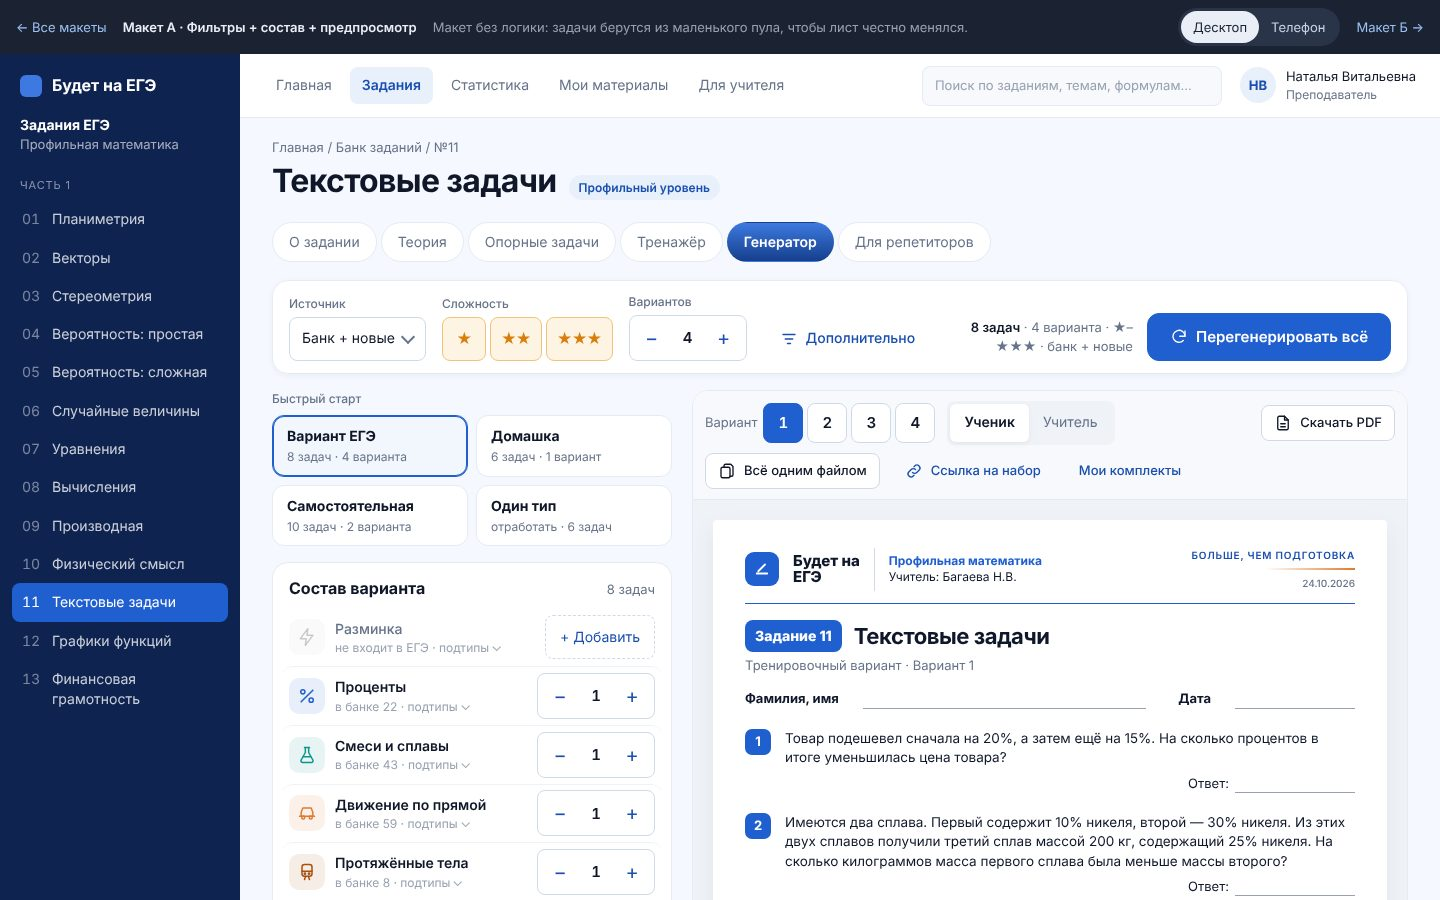
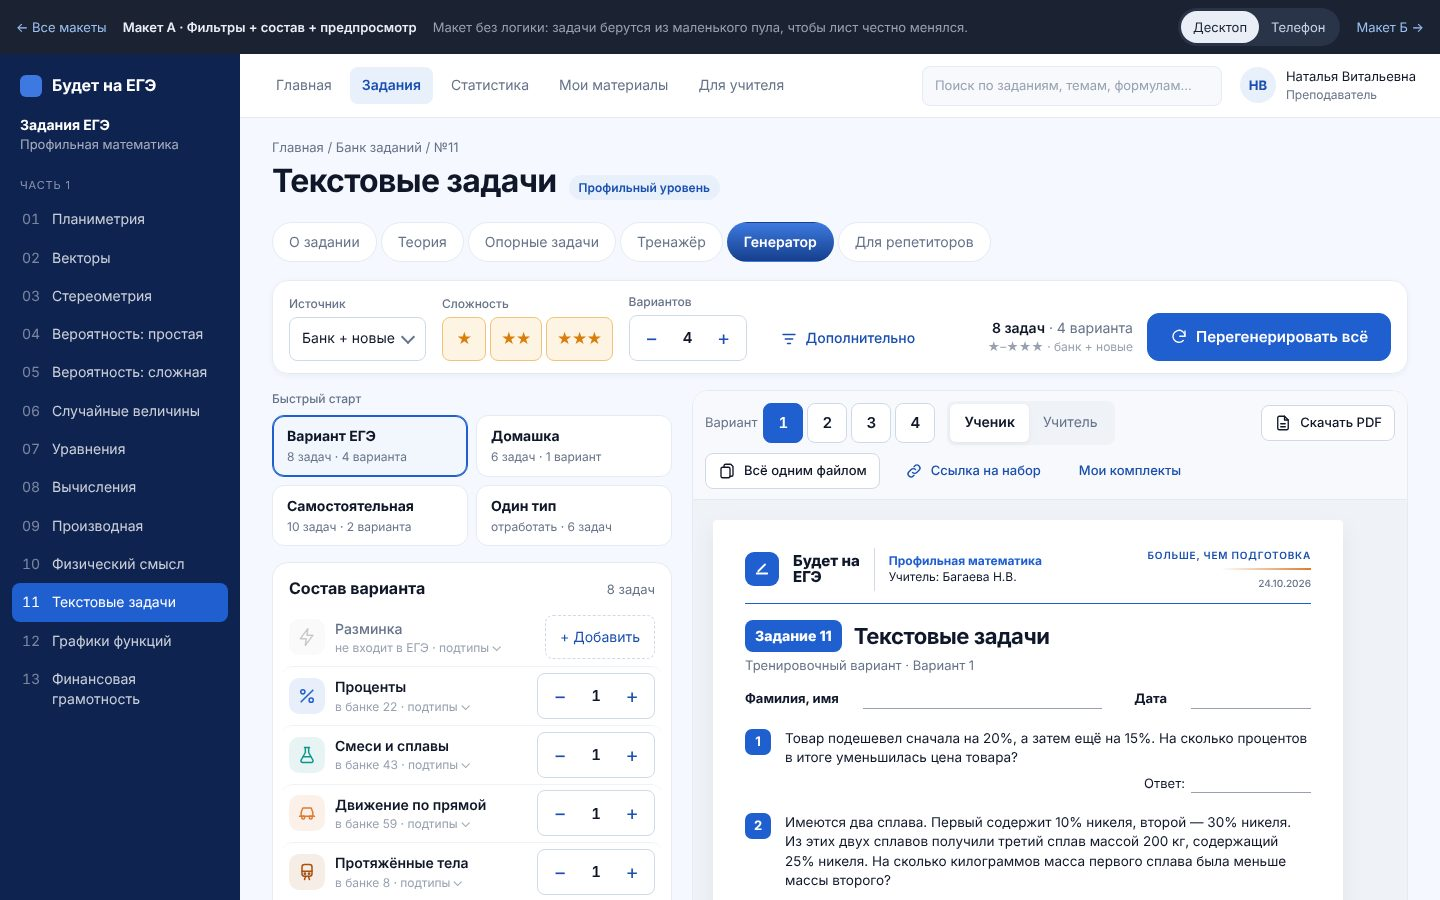
Генератор: выбран макет А, три правки по итогам обсуждения
Короткая сводка в полосе фильтров, действия над задачей — колонкой
иконок на поле справа от листа, окно «Фильтры» на телефоне по образцу
шага 2 макета Б. В 02-design.md записан выбор.

Claude-Session: https://claude.ai/code/session_01NsKWZTRfLBHKpLNKgzsvTi

diff --git a/docs/generator/mockups/mockup.js b/docs/generator/mockups/mockup.js
@@ -69,6 +69,11 @@
     if (s[1] - s[0] === 1) return '★'.repeat(s[0]) + '–' + '★'.repeat(s[1]);
     return '★ и ★★★';
   }
+  function summaryShort() {
+    const n = total(), v = S.variants;
+    return `<b>${n} ${plural(n, 'задача', 'задачи', 'задач')}</b> · ${v} ${plural(v, 'вариант', 'варианта', 'вариантов')}`;
+  }
+  function summaryPlain() { return summary().replace(/<[^>]+>/g, ''); }
   function summary() {
     const n = total(), v = S.variants;
     const src = MK.sources.find((x) => x.id === S.src).short;
@@ -147,7 +152,7 @@
           ${teacher ? `<div class="task__sol"><b>Ответ: ${t.a}.</b> ${tex(t.s)}</div>` : '<div class="task__ans">Ответ: <span></span></div>'}
         </div>
         ${demo ? '' : `<div class="task__tools" role="toolbar" aria-label="Действия с задачей ${ord}">
-          <button data-act="swap">${ico('swap')}Заменить</button><button data-act="lvl">${ico('star')}Другой уровень</button><button data-act="del">${ico('x')}Убрать</button></div>
+          <button data-act="swap" title="Заменить на похожую" aria-label="Заменить на похожую">${ico('swap')}</button><button data-act="lvl" title="Другой уровень" aria-label="Другой уровень">${ico('star')}</button><button data-act="del" title="Убрать из листа" aria-label="Убрать из листа">${ico('x')}</button></div>
           <button class="task__more" data-act="menu" aria-label="Действия с задачей ${ord}">${ico('dots')}</button>`}
       </li>`;
     });
@@ -230,7 +235,7 @@
         <div class="fld"><span class="lbl">Вариантов</span><span class="step"><button data-vdec aria-label="Вариантов меньше" ${S.variants <= 1 ? 'disabled' : ''}>−</button><output>${S.variants}</output><button data-vinc aria-label="Вариантов больше" ${S.variants >= 8 ? 'disabled' : ''}>+</button></span></div>
         <button class="btn btn--ghost" data-more aria-expanded="${S.moreOpen}">${ico('filter')}Дополнительно</button>
       </div>
-      <div class="strip__go"><span class="sum">${summary()}</span><button class="btn btn--primary go" data-go>${S.generated ? ico('refresh') + 'Перегенерировать всё' : ico('play') + 'Сгенерировать'}</button></div>
+      <div class="strip__go"><span class="sum" title="${summaryPlain()}">${summaryShort()}<small>${lvText(S.lv)} · ${MK.sources.find((x) => x.id === S.src).short}</small></span><button class="btn btn--primary go" data-go>${S.generated ? ico('refresh') + 'Перегенерировать всё' : ico('play') + 'Сгенерировать'}</button></div>
       <div class="strip__chips">
         <button class="is-filters" data-sheet="filters">${ico('filter')}Фильтры</button>
         <button data-sheet="filters">${src.title}</button>
@@ -246,9 +251,9 @@
     overlay().innerHTML = `<div class="scrim" data-close></div><div class="bsheet" role="dialog" aria-modal="true" aria-label="${title}"><div class="bsheet__grip"></div><div class="bsheet__h"><h2>${title}</h2><button class="btn btn--sm btn--ghost" data-close aria-label="Закрыть">${ico('x')}</button></div><div class="bsheet__body">${body}</div>${foot ? `<div class="bsheet__foot">${foot}</div>` : ''}</div>`;
   }
   function filtersBody() {
-    return `<section><span class="lbl">Откуда брать задачи</span>${MK.sources.map((s) => `<button class="radio" role="radio" aria-checked="${S.src === s.id}" data-src="${s.id}"><i></i><span><b>${s.title}</b><small>${s.note}</small></span></button>`).join('')}</section>
-      <section><span class="lbl">Сложность</span><div class="stars" role="group">${[1, 2, 3].map((l) => `<button data-lv="${l}" aria-pressed="${S.lv.includes(l)}">${'★'.repeat(l)}</button>`).join('')}</div><p class="hint" style="margin:8px 0 0">★ — ${MK.levelWords[1]}, ★★ — ${MK.levelWords[2]}, ★★★ — ${MK.levelWords[3]}.</p></section>
-      <section><span class="lbl">Вариантов</span><span class="step"><button data-vdec ${S.variants <= 1 ? 'disabled' : ''}>−</button><output>${S.variants}</output><button data-vinc ${S.variants >= 8 ? 'disabled' : ''}>+</button></span></section>
+    return `<section><h3 class="sec-h">Откуда брать задачи</h3>${MK.sources.map((s) => `<button class="radio" role="radio" aria-checked="${S.src === s.id}" data-src="${s.id}"><i></i><span><b>${s.title}</b><small>${s.note}</small></span></button>`).join('')}</section>
+      <section><h3 class="sec-h">Сложность</h3><div class="lvcards" role="group" aria-label="Сложность">${[1, 2, 3].map((l) => `<button data-lv="${l}" aria-pressed="${S.lv.includes(l)}"><b>${'★'.repeat(l)}</b><small>${MK.levelWords[l]}</small></button>`).join('')}</div><p class="hint" style="margin:8px 0 0">Можно выбрать несколько. Темы из состава не пропадают.</p></section>
+      <section><h3 class="sec-h">Вариантов</h3><span class="step"><button data-vdec ${S.variants <= 1 ? 'disabled' : ''}>−</button><output>${S.variants}</output><button data-vinc ${S.variants >= 8 ? 'disabled' : ''}>+</button></span></section>
       <section class="more-in-sheet">${moreHtml()}</section>`;
   }
   function openFilters() {

diff --git a/docs/generator/mockups/mockup.css b/docs/generator/mockups/mockup.css
@@ -143,6 +143,8 @@ body.view-phone .side, body.view-phone .tabs { top: 0; }
 .sum { font-size: 13px; color: var(--grey-700); text-align: right; max-width: 300px; min-width: 0; }
 @container dev (max-width: 1180px) { .strip { flex-wrap: wrap; } }
 .sum b { color: var(--grey-900); font-weight: 600; }
+.strip .sum { font-size: 14px; }
+.strip .sum small { display: block; font-size: 12px; color: var(--grey-500); }
 .strip__chips { display: none; }
 body.view-phone .strip { top: 52px; }
 
@@ -198,7 +200,7 @@ body.view-phone .strip { top: 52px; }
 .vtabs span { font-size: 13px; color: var(--grey-700); margin-right: 2px; }
 .vtabs button { width: 40px; height: 40px; border-radius: var(--r-md); border: 1px solid var(--grey-300); background: #fff; font-weight: 600; font-variant-numeric: tabular-nums; }
 .vtabs button[aria-pressed="true"] { background: var(--blue-600); border-color: var(--blue-600); color: #fff; }
-.pv__scroll { background: var(--grey-100); padding: 20px; max-height: calc(100vh - 260px); overflow: auto; }
+.pv__scroll { background: var(--grey-100); padding: 20px 64px 20px 20px; max-height: calc(100vh - 260px); overflow: auto; }
 body.view-phone .pv__scroll { max-height: none; }
 .toast { position: absolute; left: 50%; bottom: 16px; transform: translateX(-50%); background: var(--navy-900); color: #fff; font-size: 13px; padding: 10px 14px; border-radius: var(--r-md); box-shadow: var(--sh-lg); z-index: 70; pointer-events: none; }
 .right .toast { position: absolute; }
@@ -243,10 +245,10 @@ body.view-phone .pv__scroll { max-height: none; }
 .sh-empty { padding: 28px 0 8px; text-align: center; color: var(--grey-700); }
 
 /* Действия над задачей: десктоп — по наведению, тач — кнопка «⋯» и долгое нажатие. */
-.task__tools { position: absolute; top: 6px; right: 6px; display: flex; gap: 4px; opacity: 0; transition: opacity .12s; background: #fff; border: 1px solid var(--grey-200); border-radius: 10px; padding: 3px; box-shadow: var(--sh-md); }
-.task__tools button { border: 0; background: none; min-height: 32px; padding: 0 10px; border-radius: 7px; font-size: 13px; color: var(--grey-900); display: inline-flex; align-items: center; gap: 6px; }
+.task__tools { position: absolute; top: 4px; right: -66px; display: flex; flex-direction: column; gap: 2px; opacity: 0; transition: opacity .12s; background: #fff; border: 1px solid var(--grey-200); border-radius: 10px; padding: 3px; box-shadow: var(--sh-md); z-index: 2; }
+.task__tools button { border: 0; background: none; width: 34px; height: 34px; border-radius: 7px; color: var(--grey-700); display: grid; place-items: center; }
 .task__tools button:hover { background: var(--blue-50); color: var(--blue-700); }
-.task__tools svg { width: 15px; height: 15px; }
+.task__tools svg { width: 17px; height: 17px; }
 .task__grip { position: absolute; left: -18px; top: 14px; width: 14px; height: 22px; opacity: 0; cursor: grab; color: var(--grey-500); }
 .sheet.is-live .task:hover { background: var(--blue-50); }
 .sheet.is-live .task:hover .task__tools, .sheet.is-live .task:focus-within .task__tools { opacity: 1; }
@@ -273,6 +275,13 @@ body.view-phone .pv__scroll { max-height: none; }
 .bsheet section { padding: 12px 0; border-top: 1px solid var(--grey-100); }
 .bsheet section:first-child { border-top: 0; }
 .bsheet section > .lbl { display: block; margin-bottom: 8px; font-size: 13px; }
+.sec-h { margin: 0 0 10px; font-size: 16px; font-weight: 600; }
+.lvcards { display: grid; grid-template-columns: repeat(3, minmax(0, 1fr)); gap: 8px; }
+.lvcards button { display: flex; flex-direction: column; align-items: flex-start; gap: 4px; min-height: 76px; padding: 10px; text-align: left; border: 1px solid var(--grey-200); background: #fff; border-radius: var(--r-lg); }
+.lvcards button b { color: var(--grey-500); font-size: 15px; letter-spacing: -.05em; }
+.lvcards button small { font-size: 12px; color: var(--grey-700); line-height: 1.3; }
+.lvcards button[aria-pressed="true"] { border-color: #f2c27a; background: var(--amber-50); }
+.lvcards button[aria-pressed="true"] b { color: var(--amber-600); }
 .radio { display: flex; gap: 12px; align-items: flex-start; width: 100%; text-align: left; border: 1px solid var(--grey-200); background: #fff; border-radius: var(--r-lg); padding: 12px; min-height: 56px; }
 .radio + .radio { margin-top: 8px; }
 .radio i { width: 20px; height: 20px; border-radius: 50%; border: 2px solid var(--grey-300); flex: none; margin-top: 1px; }

diff --git a/docs/generator/mockups/index.html b/docs/generator/mockups/index.html
@@ -47,7 +47,7 @@
     <article class="card">
       <img src="shots/a-desktop-student.jpg" alt="Макет А на десктопе: полоса фильтров сверху, состав слева, лист справа" width="1440" height="900">
       <div class="card__body">
-        <span class="tag tag--rec">Рекомендую</span>
+        <span class="tag tag--rec">Выбран</span>
         <h2>А · Фильтры + состав + предпросмотр</h2>
         <p>Один экран. Сверху липкая полоса фильтров со сводкой и кнопкой «Сгенерировать». Слева пресеты и состав, справа живой лист. На телефоне фильтры сворачиваются в чипы и нижний лист, кнопка прибита к низу.</p>
         <a class="open" href="a.html">Открыть макет А</a>
@@ -63,7 +63,7 @@
     <article class="card">
       <img src="shots/b-desktop-2-how.jpg" alt="Макет Б на десктопе: шаг 2 из 3, источник, сложность и варианты" width="1440" height="900">
       <div class="card__body">
-        <span class="tag tag--alt">Альтернатива</span>
+        <span class="tag tag--alt">Не выбран</span>
         <h2>Б · Три шага</h2>
         <p>Что → Как → Результат. Каждый шаг — один экран, прогресс сверху, на любой пройденный шаг можно вернуться. Справа на шагах 1–2 маленький лист.</p>
         <a class="open" href="b.html">Открыть макет Б</a>

diff --git a/docs/generator/02-design.md b/docs/generator/02-design.md
@@ -6,6 +6,16 @@
 
 Макеты собраны на №11 «Текстовые задачи» с размерами и текстами сайта: палитра, радиусы и шрифт взяты из `app/src/styles/tokens.css`, шапка листа повторяет `design-reference/pdf-obrazec-lista.png`. Логики нет, но всё кликается. Задачи берутся из маленького пула с ответами и решениями, поэтому лист честно меняется при смене состава, уровня, источника, варианта и вида листа. Формулы набраны KaTeX, в макете в режиме MathML (внешние шрифты KaTeX внутри артефакта заблокированы). На сайте будет обычный KaTeX.
 
+## 0. Выбор (24.10.2026)
+
+**Выбран макет А.** По итогам обсуждения в него внесены три правки:
+
+- **Сводка в полосе фильтров короче:** крупно «8 задач · 4 варианта», мелко под ней уровни и источник. Полная строка — в подсказке при наведении.
+- **Действия над задачей больше не перекрывают текст.** При наведении справа от листа, на поле, появляется узкая колонка иконок «Заменить», «Другой уровень», «Убрать» с подсказками.
+- **Окно «Фильтры» на телефоне взято из шага 2 макета Б:** заголовки разделов, источник карточками с пояснениями, сложность тремя карточками с расшифровкой уровня.
+
+Макет Б остаётся в папке для истории.
+
 ## 1. Что решили после этапа 1
 
 | Вопрос | Решение |
@@ -62,7 +72,7 @@
 - **Состав** — строка на тему высотой 52 px: пиктограмма, название, «в банке N · подтипы ⌄», степпер «− N +». Тема с нулём выглядит бледно и показывает «+ Добавить». По «подтипы ⌄» под строкой раскрываются подтипы: прогрессивное раскрытие вместо 51 степпера сразу.
 - **Дополнительно** раскрывается карточкой под составом: рамка с теорией, разобранные примеры (0 / 1 / 2 на тип), QR-код на ссылку, вид работы, дата, учитель.
 - **Предпросмотр** справа, липкий, с прокруткой внутри. На 1440×900 шапка листа и первые задачи видны без прокрутки страницы.
-- **Действия над задачей**: при наведении задача подсвечивается, справа всплывает панель «Заменить · Другой уровень · Убрать», слева ручка перетаскивания.
+- **Действия над задачей**: при наведении задача подсвечивается, справа на поле листа появляется колонка иконок «Заменить», «Другой уровень», «Убрать», слева ручка перетаскивания.
 
 ![Макет А, лист учителя и действия по наведению](mockups/shots/a-desktop-teacher-hover.jpg)
 
@@ -203,7 +213,7 @@ export interface GeneratorConfig {
 
 ## 12. Что осталось и следующий шаг
 
-- **Ваш выбор:** макет А или Б.
+- ~~Ваш выбор: макет А или Б~~ — выбран А.
 - **Ваш ответ по движку** (раздел 9).
 - **Пресеты №13** собраны по вашему описанию типов. Если в ЕГЭ задача №13 одна, пресет «Вариант ЕГЭ» даёт одну задачу на вариант. Поправьте, если нужно иначе.
 
